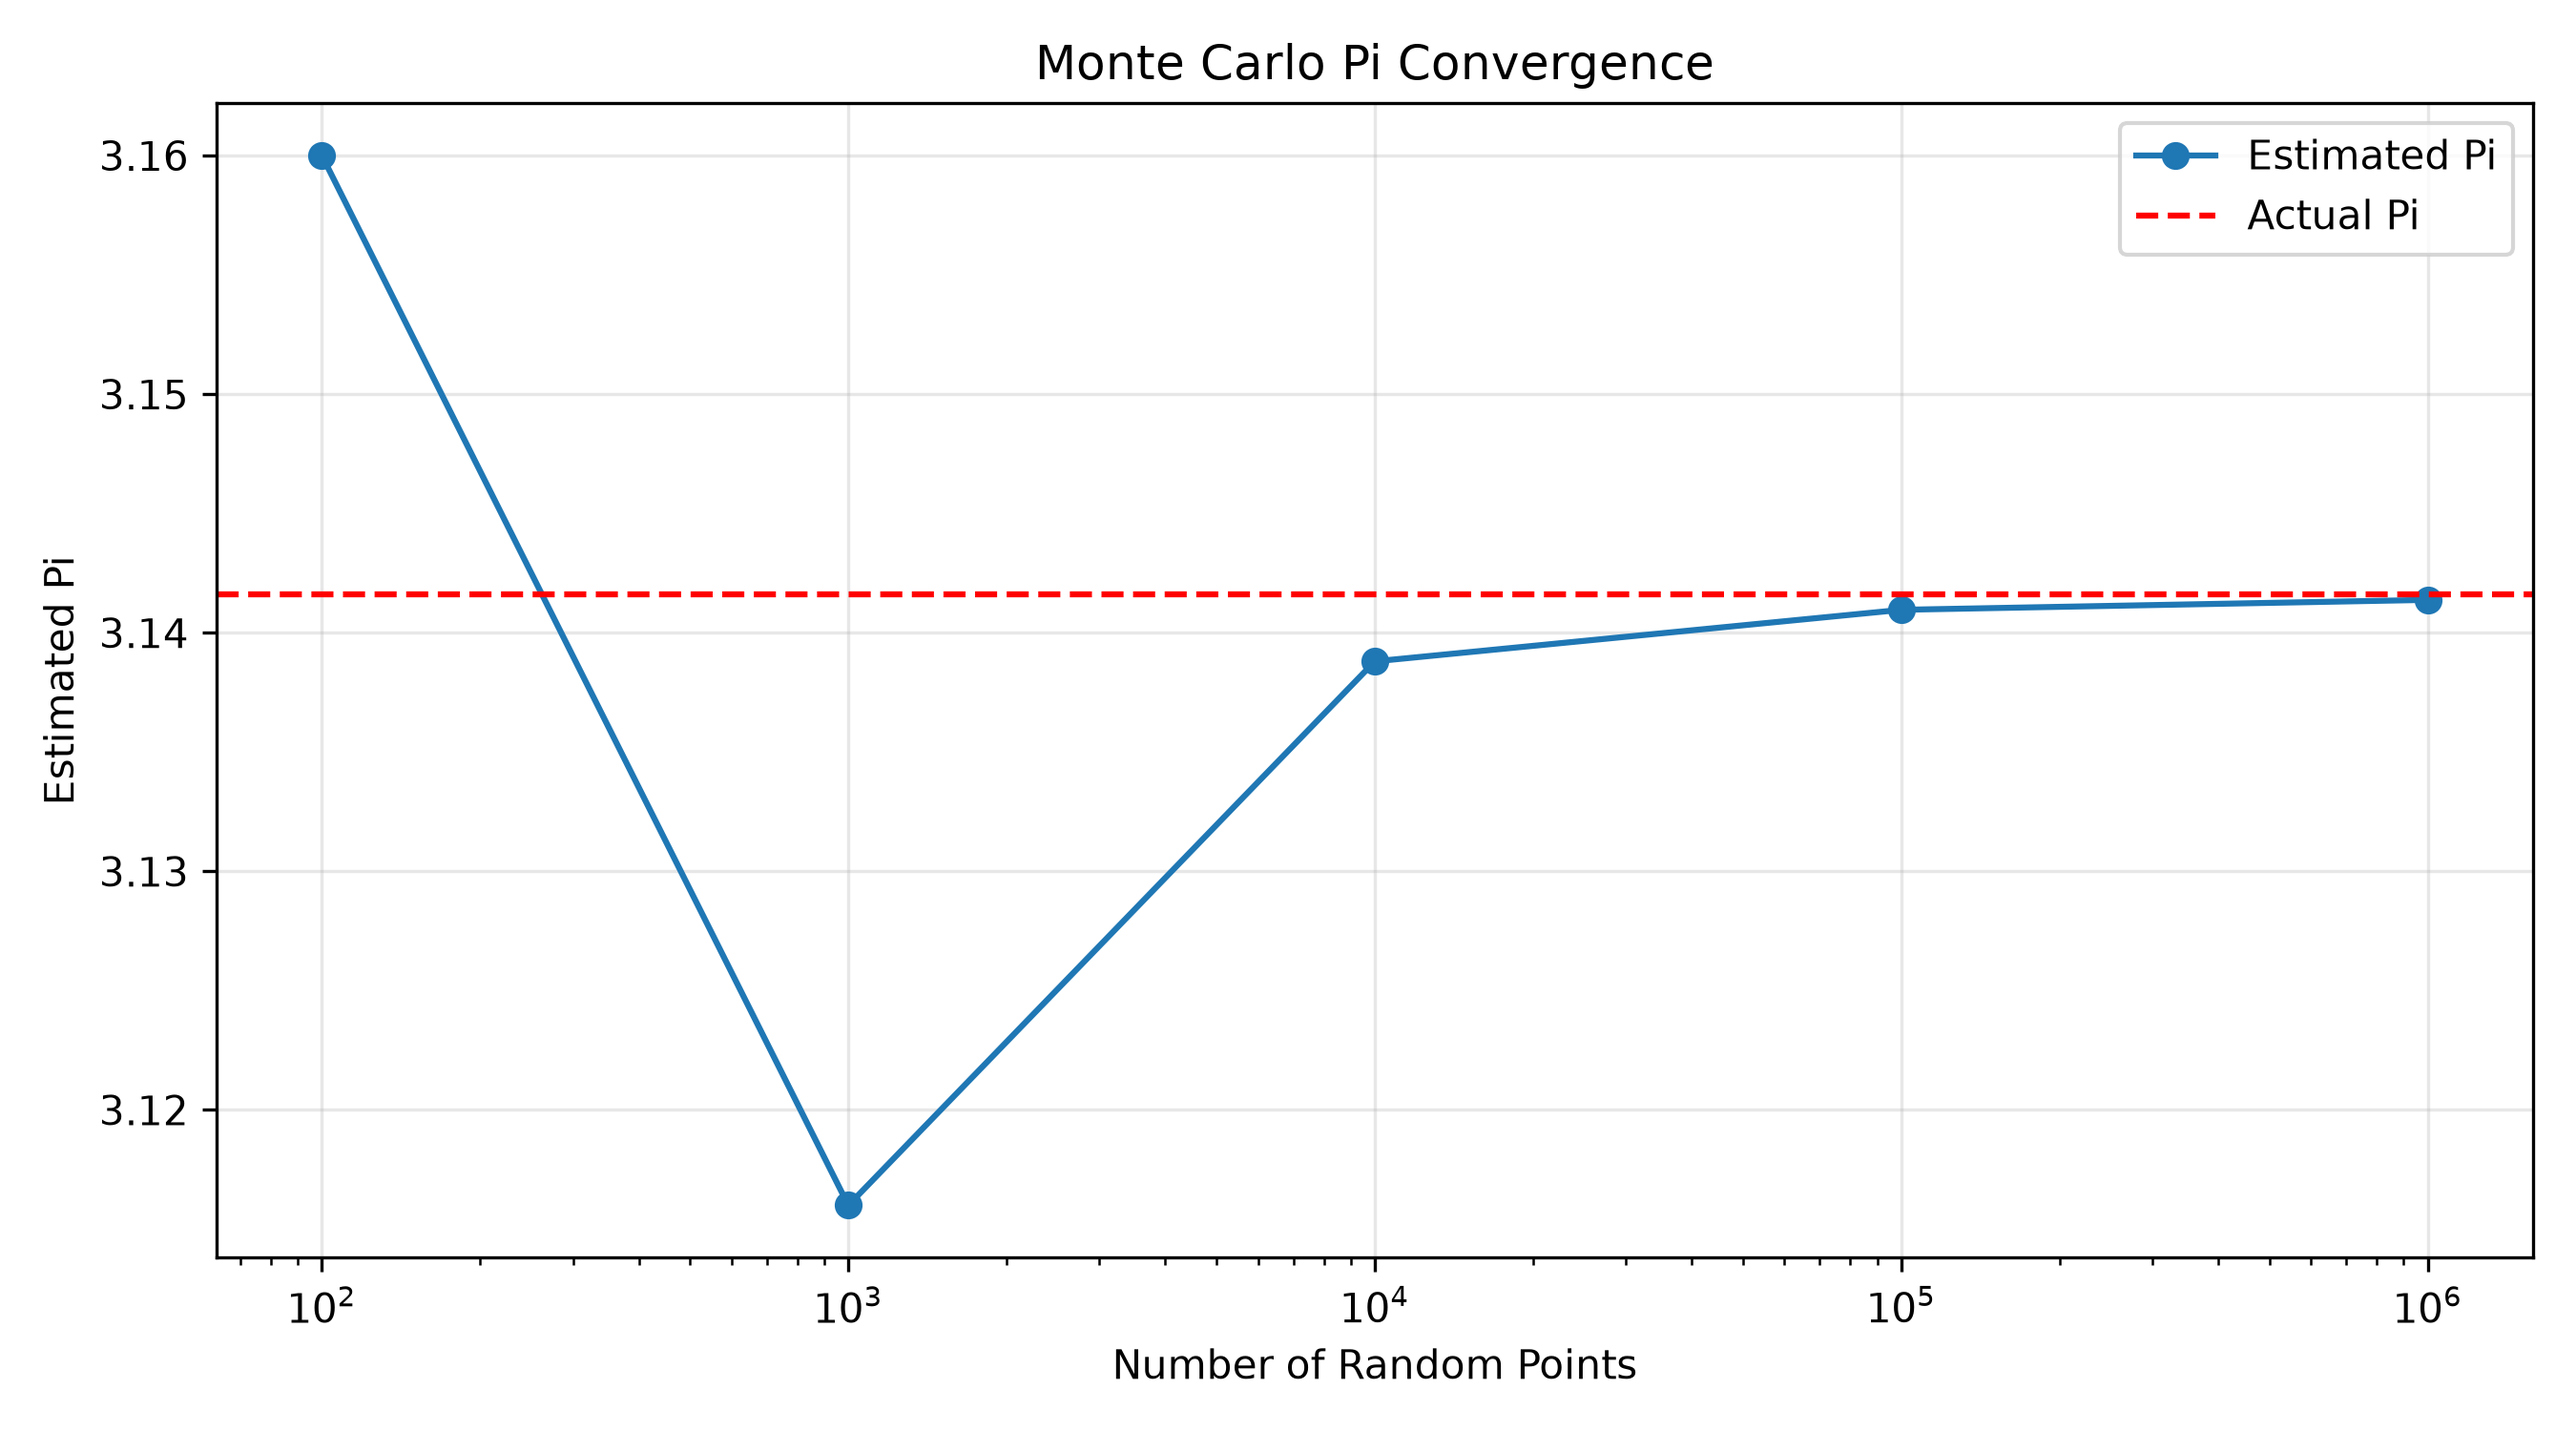
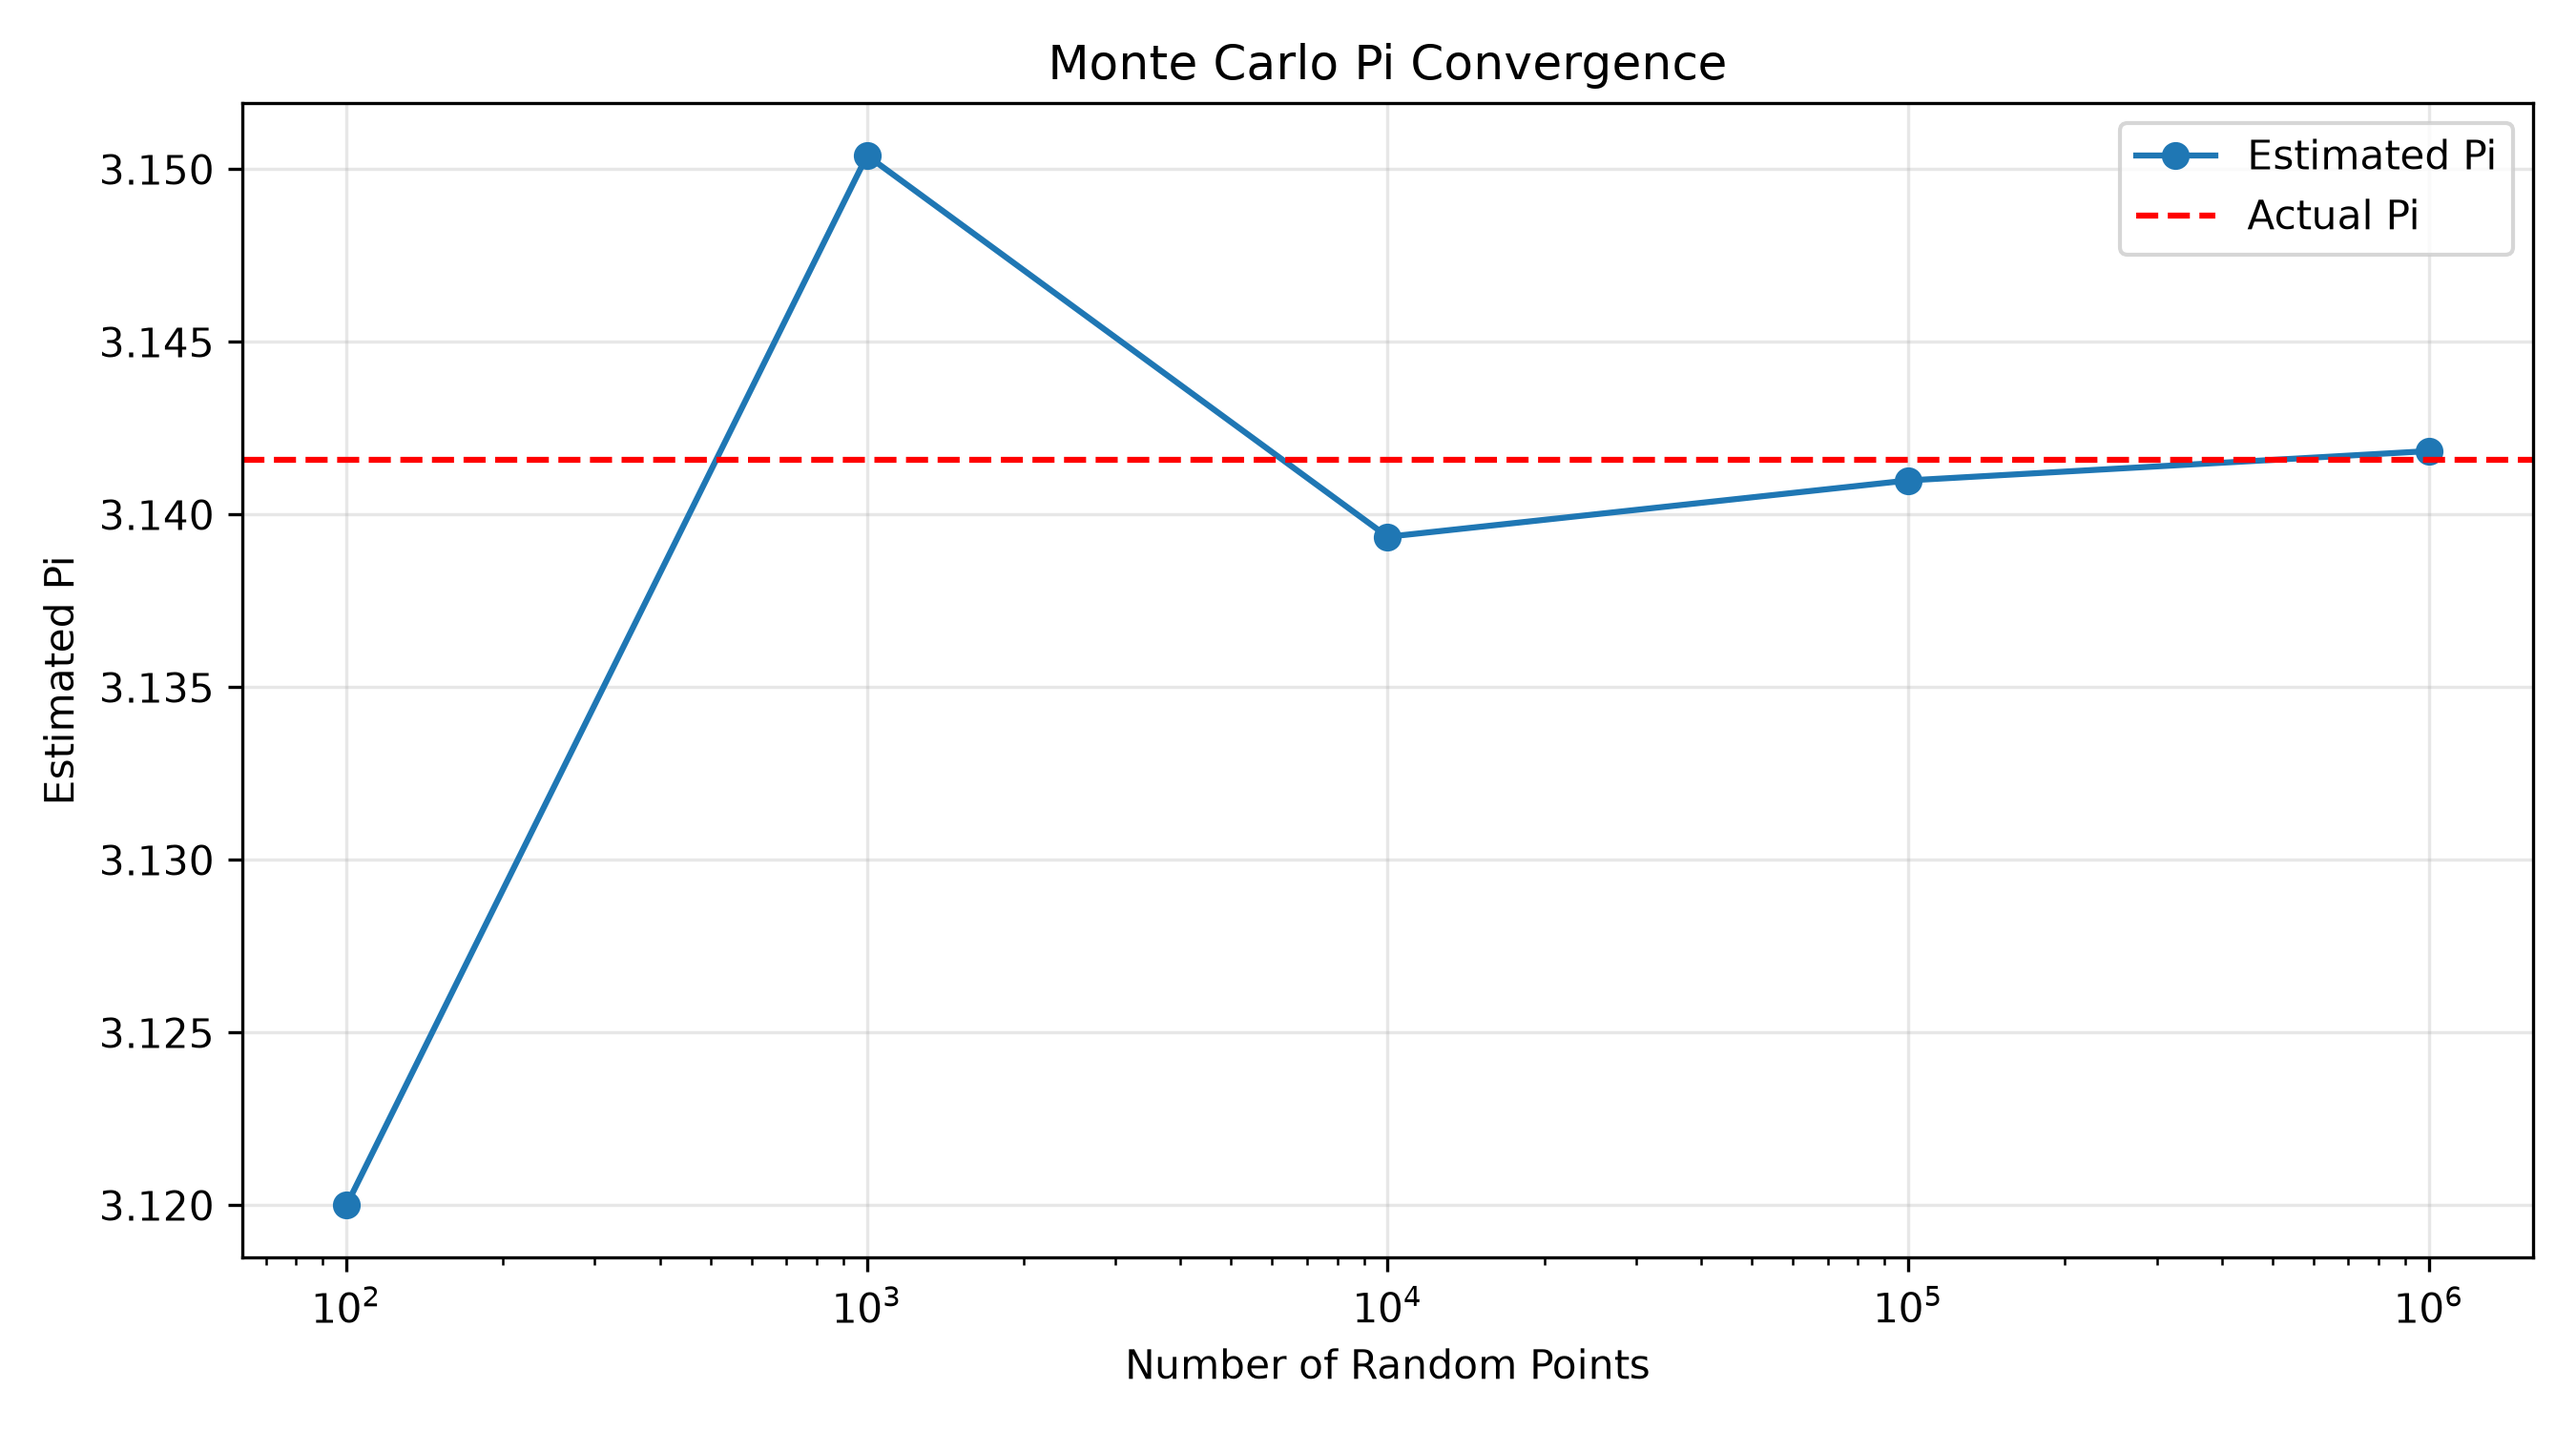
add requirements.txt with minor fix

diff --git a/experiments/visualize.py b/experiments/visualize.py
@@ -38,7 +38,7 @@ def save_graph(x, y, title, xlabel, ylabel, filename, reference=None):
     print(f"Saved: {filename}")
 
 
-def plot_sample_points(number_of_points: int = 10000, seed: int | None = 42):
+def plot_sample_points(number_of_points: int = 10000, seed: int | None = 72):
     estimator = MonteCarloPi(seed=seed)
 
     result = estimator.estimate(number_of_points, return_points=True)
@@ -92,7 +92,7 @@ def plot_sample_points(number_of_points: int = 10000, seed: int | None = 42):
     print("Saved: sample_points.png")
 
 
-def run_visualization(samples, repetitions=5, seed: int | None = 118, plot_points=10000):
+def run_visualization(samples, repetitions=5, seed: int | None = 72, plot_points=10000):
 
     RESULTS_DIR.mkdir(parents=True, exist_ok=True)
 
@@ -186,7 +186,7 @@ def main():
 
     parser.add_argument("-r", "--repetitions", type=int, default=5)
 
-    parser.add_argument("-s", "--seed", type=int, default=118)
+    parser.add_argument("-s", "--seed", type=int, default=72)
 
     parser.add_argument(
         "--plot-points",

diff --git a/experiments/benchmark.py b/experiments/benchmark.py
@@ -13,7 +13,7 @@ sys.path.insert(0, str(PROJECT_ROOT))
 from src.estimator import MonteCarloPi
 
 
-def benchmark(sample_sizes, repetitions=5, seed: int | None = 118):
+def benchmark(sample_sizes, repetitions=5, seed: int | None = 72):
     if repetitions <= 0:
         raise ValueError("Repetitions must be positive.")
 
@@ -154,7 +154,7 @@ def main():
         "-s",
         "--seed",
         type=int,
-        default=118,
+        default=72,
         help="Random seed (negative for random seeds)",
     )
 
